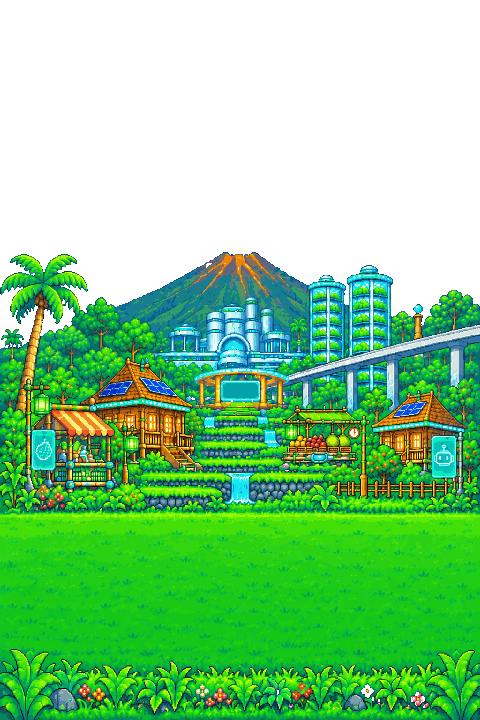
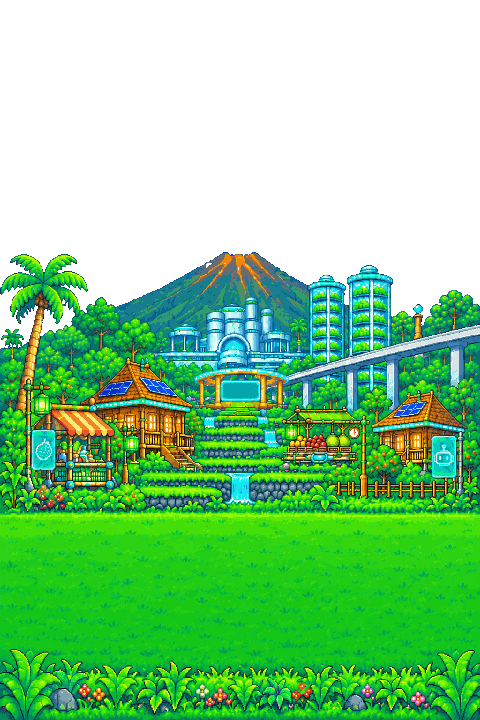
Village sky: no blurred mountain behind v3, no see-through flowers
- Laptops: the blurred side fill (a blurred copy of the village, for room the
  sharp art does not cover) showed through the village's transparent sky as a
  second, blurry mountain. It is now masked to below each village's lowest
  sky row (Village.skyBottom; v2 and v3), fading in over 6 rows of solid art,
  so behind the village sky there is only the code sky.
- The pink flowers in the grass were cut out with the magenta sky and became
  holes. pixelize.py --sky-until ROW keeps everything below the sky; all six
  v3 village images reconverted (same commands, see docs/ASSETS.md). Only the
  sky and the gaps in the palm leaves are see-through now.
- samesky.py also recolours magenta fringe left on the skyline (dusk images).

diff --git a/web/src/art/village.ts b/web/src/art/village.ts
@@ -62,6 +62,11 @@ export interface Village {
   softHolograms?: boolean;
   /** v3: the empty screen of the Arena gazebo, where "1 VS 1" glows (game px). */
   billboard?: Box;
+  /**
+   * The lowest game row where the art is see-through (its sky, gaps in the palm leaves). The blurred
+   * side fill (laptops) is only drawn below it, so it never shows behind the village's own sky.
+   */
+  skyBottom?: number;
   /** Phones: the scene always shows the art from this game row down. */
   shownFrom?: number;
   /** v3 phones: the top row of the open grass; tree labels never go above it (they stay off the village). */
@@ -166,6 +171,7 @@ export const V2_WEB: Village = {
   key: 'v2-web',
   w: 240,
   h: 135,
+  skyBottom: 62,
   src: v2Src('web'),
   bedRow: 120,
   stage: [30, 210],
@@ -225,6 +231,7 @@ export const V2_PHONE: Village = {
   key: 'v2-phone',
   w: 120,
   h: 180,
+  skyBottom: 92,
   src: v2Src('phone'),
   bedRow: 158,
   stage: [4, 116],
@@ -278,6 +285,7 @@ export const V3_WEB: Village = {
   key: 'v3-web',
   w: 240,
   h: 135,
+  skyBottom: 61,
   src: v3Src('web'),
   bedRow: 121,
   stage: [30, 210],
@@ -345,6 +353,7 @@ export const V3_PHONE: Village = {
   key: 'v3-phone',
   w: 120,
   h: 180,
+  skyBottom: 88,
   src: v3Src('phone'),
   bedRow: 149,
   stage: [4, 116],

diff --git a/web/src/art/backdrop.tsx b/web/src/art/backdrop.tsx
@@ -142,7 +142,9 @@ export function Backdrop({
       {v2 && <SkyBands hour={hour} />}
       {blurFill && (
         // Full-window layout: whatever the sharp art does not cover shows a blurred copy of it.
-        <div class="bg-blur">
+        // Villages with a see-through sky (v2, v3): the blurred copy only shows below the art's sky
+        // (`skyBottom`), fading in over 6 rows of solid art, so it never appears behind the sky.
+        <div class={`bg-blur${v.skyBottom !== undefined ? ' below-sky' : ''}`} style={v.skyBottom !== undefined ? { '--ground-rows': String(v.h - v.skyBottom) } : undefined}>
           {!v2 && <SkyBands hour={hour} />}
           <img src={src('day')} alt="" />
           <img class="bg-img-dusk" src={src('dusk')} alt="" />

diff --git a/web/src/styles.css b/web/src/styles.css
@@ -8290,3 +8290,12 @@ button.chip:focus-visible {
     animation: none;
   }
 }
+
+/* Villages with a see-through sky (v2, v3): the blurred side fill is cut off at the art's lowest
+   sky row (--ground-rows from the art's bottom), so only the code sky shows behind the village's
+   sky; it fades in over 6 rows where the art is solid. .bg-blur reaches 40px below the scene. */
+.bg-blur.below-sky {
+  --cut: calc(40px + var(--art-bottom, 0px) + var(--ground-rows) * var(--k, 1) * 1px);
+  -webkit-mask-image: linear-gradient(to top, #000 calc(var(--cut) - 6 * var(--k, 1) * 1px), transparent var(--cut));
+  mask-image: linear-gradient(to top, #000 calc(var(--cut) - 6 * var(--k, 1) * 1px), transparent var(--cut));
+}

diff --git a/tools/pixelize/background.py b/tools/pixelize/background.py
@@ -44,9 +44,11 @@ def pinkish(p):
     return (r - g > 35 and b - g > 35 and abs(r - b) < 80) or (b - g > 60 and r >= g - 10 and b > r)
 
 
-def fringe_mask(w, h, px, key, ox=0, oy=0):
-    """Key pixels plus pinkish pixels within 3 px of them (source coordinates of the crop)."""
-    strong = [[keyish(px[oy + y][ox + x], key) for x in range(w)] for y in range(h)]
+def fringe_mask(w, h, px, key, ox=0, oy=0, sky_until=None):
+    """Key pixels plus pinkish pixels within 3 px of them (source coordinates of the crop).
+    `sky_until` (source row): below it nothing is cut (pink flowers in the grass stay)."""
+    lim = h if sky_until is None else max(0, min(h, sky_until - oy))
+    strong = [[y < lim and keyish(px[oy + y][ox + x], key) for x in range(w)] for y in range(h)]
     near = [[False] * w for _ in range(h)]
     R = 3
     for y in range(h):
@@ -60,7 +62,7 @@ def fringe_mask(w, h, px, key, ox=0, oy=0):
     full = [[False] * (ox + w) for _ in range(oy + h)]
     for y in range(h):
         for x in range(w):
-            if strong[y][x] or (near[y][x] and pinkish(px[oy + y][ox + x])):
+            if strong[y][x] or (y < lim and near[y][x] and pinkish(px[oy + y][ox + x])):
                 full[oy + y][ox + x] = True
     return full
 
@@ -176,13 +178,13 @@ def median_cut(colors, n):
     return [tuple(sum(c[i] for c in b) // len(b) for i in range(3)) for b in boxes if b]
 
 
-def pixelize_background(w, h, px, rows, ncolors, out, key=None, mask=None, crop=None, cols=None, hq=False):
+def pixelize_background(w, h, px, rows, ncolors, out, key=None, mask=None, crop=None, cols=None, hq=False, sky_until=None):
     """`mask[y][x]` = True for background pixels (cut out); `crop` = (x0, y0, x1, y1) source box."""
     ox, oy = (crop[0], crop[1]) if crop else (0, 0)
     if crop:
         w, h = crop[2] - crop[0], crop[3] - crop[1]
     if hq and key is not None:
-        fm = fringe_mask(w, h, px, key, ox, oy)
+        fm = fringe_mask(w, h, px, key, ox, oy, sky_until)
         if mask is None:
             mask = fm
         else:
@@ -204,7 +206,8 @@ def pixelize_background(w, h, px, rows, ncolors, out, key=None, mask=None, crop=
 
     if hq:
         # pinkish cells on the edge of the cut-out sky are fringe as well
-        for r in range(rows):
+        last = rows if sky_until is None else int((sky_until - oy) / cell)
+        for r in range(min(rows, last)):
             for q in range(cols):
                 c = cells[r][q]
                 if c is not None and pinkish(c) and any(

diff --git a/tools/pixelize/samesky.py b/tools/pixelize/samesky.py
@@ -1,11 +1,13 @@
 # Gives a converted night (or dusk) village exactly the same cut-out sky as the day village, so the
 # day -> night cross-fade never flickers along the skyline (roofs, trees, the mountain's edge).
 # Where the day is sky, the night becomes sky too; where the day has a pixel but the night is sky,
-# the night takes the colour of its nearest opaque pixel.
+# the night takes the colour of its nearest opaque pixel. Pinkish pixels left on the skyline (magenta
+# fringe) take the colour of the nearest opaque pixel that is not pinkish.
 # Usage: python3 -I tools/pixelize/samesky.py DAY.png NIGHT.png OUT.png   (standard library only)
 import sys, os
 sys.path.insert(0, os.path.dirname(os.path.abspath(__file__)))
 from png import read_png, write_png
+from background import pinkish
 
 
 def main():
@@ -36,8 +38,32 @@ def main():
                         break
                 img[y][x] = best[1] if best else D[y][x]
                 filled += 1
+    # Leftover magenta fringe on the skyline (pinkish pixels touching the sky) takes the colour of
+    # the nearest opaque pixel that is not pinkish.
+    fringe = 0
+    for y in range(h):
+        for x in range(w):
+            p = img[y][x]
+            if not p[3] or not pinkish(p):
+                continue
+            if not any(0 <= y + dy < h and 0 <= x + dx < w and img[y + dy][x + dx][3] == 0 for dy, dx in ((-1, 0), (1, 0), (0, -1), (0, 1))):
+                continue
+            best = None
+            for r in range(1, 6):
+                for yy in range(max(0, y - r), min(h, y + r + 1)):
+                    for xx in range(max(0, x - r), min(w, x + r + 1)):
+                        q = img[yy][xx]
+                        if q[3] and not pinkish(q):
+                            d = (yy - y) ** 2 + (xx - x) ** 2
+                            if best is None or d < best[0]:
+                                best = (d, q)
+                if best:
+                    break
+            if best:
+                img[y][x] = best[1]
+                fringe += 1
     write_png(out, w, h, img)
-    print(f'{out}: {cut} night pixels cut to sky, {filled} filled from their neighbours')
+    print(f'{out}: {cut} night pixels cut to sky, {filled} filled from their neighbours, {fringe} fringe pixels recoloured')
 
 
 main()

diff --git a/tools/pixelize/pixelize.py b/tools/pixelize/pixelize.py
@@ -2,12 +2,14 @@
 # - removes the background with a flood fill from the edges (inner whites stay)
 # - downsamples to ROWS rows using the dominant color of each cell
 # - snaps colors to the game palette (GDD colors + metal/straw/skin tones)
-# Usage: python3 -I tools/pixelize/pixelize.py input.png ROWS out_dir [--keep-bg [--colors N] [--key RRGGBB] [--hq] [--crop X0 Y0 X1 Y1 [--cols N]]]
+# Usage: python3 -I tools/pixelize/pixelize.py input.png ROWS out_dir [--keep-bg [--colors N] [--key RRGGBB] [--hq] [--sky-until ROW] [--crop X0 Y0 X1 Y1 [--cols N]]]
 # Writes out_dir/sprite.json (rows + palette) and out_dir/preview-x8.png.
 # --keep-bg is for full backgrounds: no background removal, an adaptive palette
 # (median cut, N colors, default 48) whose colors close to the GDD colors are
 # snapped to them exactly, and out_dir/bg.png at 1 pixel per cell. --hq: high quality mode
 # (smoothing, rare colours kept, pink fringe and stray pixels cleaned; see background.py).
+# --sky-until ROW (source row): the magenta sky ends above it, so nothing below is cut out
+# (pink flowers in the grass stay; without it they became see-through holes).
 # Used for the official TaniBot and the garden backdrop (docs/ASSETS.md). Standard library only.
 import sys, os, json, collections
 sys.path.insert(0, os.path.dirname(os.path.abspath(__file__)))
@@ -42,7 +44,8 @@ if keep_bg:
     crop = tuple(int(v) for v in sys.argv[sys.argv.index('--crop') + 1:sys.argv.index('--crop') + 5]) if '--crop' in sys.argv else None
     cols = int(sys.argv[sys.argv.index('--cols') + 1]) if '--cols' in sys.argv else None
     pixelize_background(w, h, px, ROWS, n, out, tuple(int(key[i:i + 2], 16) for i in (0, 2, 4)) if key else None,
-                        crop=crop, cols=cols, hq='--hq' in sys.argv)
+                        crop=crop, cols=cols, hq='--hq' in sys.argv,
+                        sky_until=int(sys.argv[sys.argv.index('--sky-until') + 1]) if '--sky-until' in sys.argv else None)
     sys.exit(0)
 else:
     xs = [x for y in range(0, h, 3) for x in range(0, w, 3) if not white(px[y][x])]

diff --git a/docs/ASSETS.md b/docs/ASSETS.md
@@ -86,7 +86,7 @@ No CC0 mango, rambutan, or durian tree sprites were found. These will be recolor
 | **Wind turbine rotor**: `docs/art-source/turbine-rotor.png` (white background) -> `web/public/assets/bg/rotor.png` (15x15) and `rotor-hd.png` (29x29) | **Made with ChatGPT at Ardian's request.** Cut out with `tools/pixelize/cutout.py`, padded so the hub is the centre; turns on the two poles in code. | AI-generated, used in NEARvest by its creator |
 | **Village v2 (symmetric village, 2026-11-08)**: `docs/art-source/village2-web-day.png` (1672x941, wide, laptops) and `village2-phone-day.png` (1024x1536, upright, phones), magenta #FF00FF sky -> `web/public/assets/bg/village2-web-day.png` (480x270) and `village2-phone-day.png` (240x360) | **Made with ChatGPT (AI image generator) at Ardian's request.** Converted by Claude Code with `python3 -I tools/pixelize/pixelize.py <src> 270 / 360 <out> --keep-bg --colors 96 --key FF00FF` (3.49 / 4.27 px cells): the magenta sky and the pink fringe on tree and roof edges are cut out (checked: no pink-ish pixel left, also over a dark night sky). The sky is drawn in code. The first village (`village-*`) stays in the repo; dev builds show it with `?bg=v1`. | AI-generated, used in NEARvest by its creator |
 | **Village v2 dusk and night (temporary)**: `web/public/assets/bg/village2-web-dusk.png`, `-night.png`, `village2-phone-dusk.png`, `-night.png` | Made by Claude Code from the day images above, pixel for pixel (`tools/pixelize/relight.py`): dusk = warm orange and a little darker; night = dark blue with lit windows, lanterns, teal / cyan / mint neon and lava. Commands: `relight.py village2-web-day.png <dusk> <night> --ground 201 --lava 185 55 265 95 --warm 33 128 47 146 --warm 49 158 96 190 --warm 104 150 183 178 --warm 125 159 138 174 --warm 291 148 304 160 --warm 351 152 364 166 --warm 372 154 438 177` and `relight.py village2-phone-day.png <dusk> <night> --ground 255 --lava 95 138 150 170 --warm 16 202 27 213 --warm 26 224 56 245 --warm 46 211 92 229 --warm 61 223 71 233 --warm 139 216 149 226 --warm 180 210 190 222 --warm 190 216 226 232`. **To use the ChatGPT dusk / night versions later**: convert them with the same `pixelize.py` command as the day image and save them under these file names; no code change. | Derived from the AI images above (same terms) |
-| **Village v3 (default since 2026-11-08)**: `docs/art-source/village3-web-day.png`, `village3-web-night.png` (1672x941, laptops) and `village3-phone-day.png` (1024x1536), `village3-phone-night.png` (1024x1535) (phones), magenta #FF00FF sky -> `web/public/assets/bg/village3-web-{day,night}.png` (480x270) and `village3-phone-{day,night}.png` (480x720, four image pixels per game pixel: the phone art has very thin lines) | **Made with ChatGPT (AI image generator) at Ardian's request.** Converted by Claude Code with the high quality mode: `python3 -I tools/pixelize/pixelize.py <src> 270 <out> --keep-bg --colors 128 --key FF00FF --hq` (laptop) and `... 720 ...` (phone). `--hq` smooths each cell before the colours are reduced, keeps rare colours (red fruit), uses no dithering, cleans stray pixels and cuts the pink / violet sky fringe (checked: 0 pink or violet pixels next to the sky). The phone night image was drawn up to 70 px lower than the day image near the top (volcano, towers, gazebo; about 10 px at the grass), so it is lined up first with `python3 -I tools/pixelize/warp.py village3-phone-day.png village3-phone-night.png <aligned.png> --top 500 --range 110` (remaining offset: mean 3 source px, under 1 game pixel). The laptop night image already lined up (at most 2 source px). Both night files then get exactly the day image's sky outline: `python3 -I tools/pixelize/samesky.py <day.png> <night bg.png> <night out.png>`. Dusk images (`village3-web-dusk.png`, `village3-phone-dusk.png`, added 2026-11-08) were drawn exactly on the day images (measured offset 0 px at every landmark, so no warp): same `pixelize.py ... --hq` command, then `samesky.py` with the day image. The village cross-fades day -> dusk -> night from the village clock. | AI-generated, used in NEARvest by its creator |
+| **Village v3 (default since 2026-11-08)**: `docs/art-source/village3-web-day.png`, `village3-web-night.png` (1672x941, laptops) and `village3-phone-day.png` (1024x1536), `village3-phone-night.png` (1024x1535) (phones), magenta #FF00FF sky -> `web/public/assets/bg/village3-web-{day,night}.png` (480x270) and `village3-phone-{day,night}.png` (480x720, four image pixels per game pixel: the phone art has very thin lines) | **Made with ChatGPT (AI image generator) at Ardian's request.** Converted by Claude Code with the high quality mode: `python3 -I tools/pixelize/pixelize.py <src> 270 <out> --keep-bg --colors 128 --key FF00FF --hq --sky-until 460` (laptop) and `... 720 ... --sky-until 811` (phone); `--sky-until` keeps everything below the sky (the pink flowers in the grass were cut out as see-through holes before 2026-11-08 evening). `--hq` smooths each cell before the colours are reduced, keeps rare colours (red fruit), uses no dithering, cleans stray pixels and cuts the pink / violet sky fringe (checked: 0 pink or violet pixels next to the sky). The phone night image was drawn up to 70 px lower than the day image near the top (volcano, towers, gazebo; about 10 px at the grass), so it is lined up first with `python3 -I tools/pixelize/warp.py village3-phone-day.png village3-phone-night.png <aligned.png> --top 500 --range 110` (remaining offset: mean 3 source px, under 1 game pixel). The laptop night image already lined up (at most 2 source px). Both night files then get exactly the day image's sky outline: `python3 -I tools/pixelize/samesky.py <day.png> <night bg.png> <night out.png>`. Dusk images (`village3-web-dusk.png`, `village3-phone-dusk.png`, added 2026-11-08) were drawn exactly on the day images (measured offset 0 px at every landmark, so no warp): same `pixelize.py ... --hq` command, then `samesky.py` with the day image. The village cross-fades day -> dusk -> night from the village clock. | AI-generated, used in NEARvest by its creator |
 | **Village robot v3** (in front of the Friends house): `docs/art-source/robot.png` (1312x1199, magenta) -> `web/src/art/robot-sprite.ts` (31x35 pixel rows, one pixel per drawn block; body, eyes and antenna orb layers) | **Made with ChatGPT at Ardian's request.** Converted on its own 21.7 px block grid: `python3 -I tools/pixelize/pixelize.py docs/art-source/robot.png 54 <out> --keep-bg --colors 8 --key FF00FF --hq --crop 16 15 1296 1187 --cols 59`, `trim.py`, then two outline pixels cleaned by hand. Hovers, blinks and its orb glows in code; stays day and night. Replaces the small robot cut from the first village. | AI-generated, used in NEARvest by its creator |
 | **Soil mound** (v3 plots): `docs/art-source/mound.png` (1536x1024, magenta) -> `web/public/assets/bg/mound.png` (66x24, its own pixel size of about 12 source px; 33x12 game px in the garden) | **Made with ChatGPT at Ardian's request.** `pixelize.py docs/art-source/mound.png 84 <out> --keep-bg --colors 32 --key FF00FF --hq`, then `python3 -I tools/pixelize/trim.py <out>/bg.png web/public/assets/bg/mound.png`. Drawn twice in code: the whole mound behind the tree and its front lip (from 54% of its height) in front, so the trunk base is hidden in the soil. Watered / locked / night / selected / fertilized are CSS filters. | AI-generated, used in NEARvest by its creator |
 | **Sloped monorail train** (v3 laptops): `docs/art-source/train-slope.png` (2042x770, magenta) -> `web/public/assets/bg/train-slope.png` (244x83, three image pixels per game pixel, about the art's own pixel size) | **Made with ChatGPT at Ardian's request.** `pixelize.py docs/art-source/train-slope.png 94 <out> --keep-bg --colors 48 --key FF00FF --hq`, then `trim.py <out>/bg.png web/public/assets/bg/train-slope.png --slope 0.246` (leans the drawing from 0.217 to the rail's measured slope with whole-pixel column steps, never a blurry rotation). Slides along the rail unrotated and fades out at the rail's end (`art/train.tsx` `SlopeTrain`). Off on phones: the phone rail is only about 48 game px long. | AI-generated, used in NEARvest by its creator |
